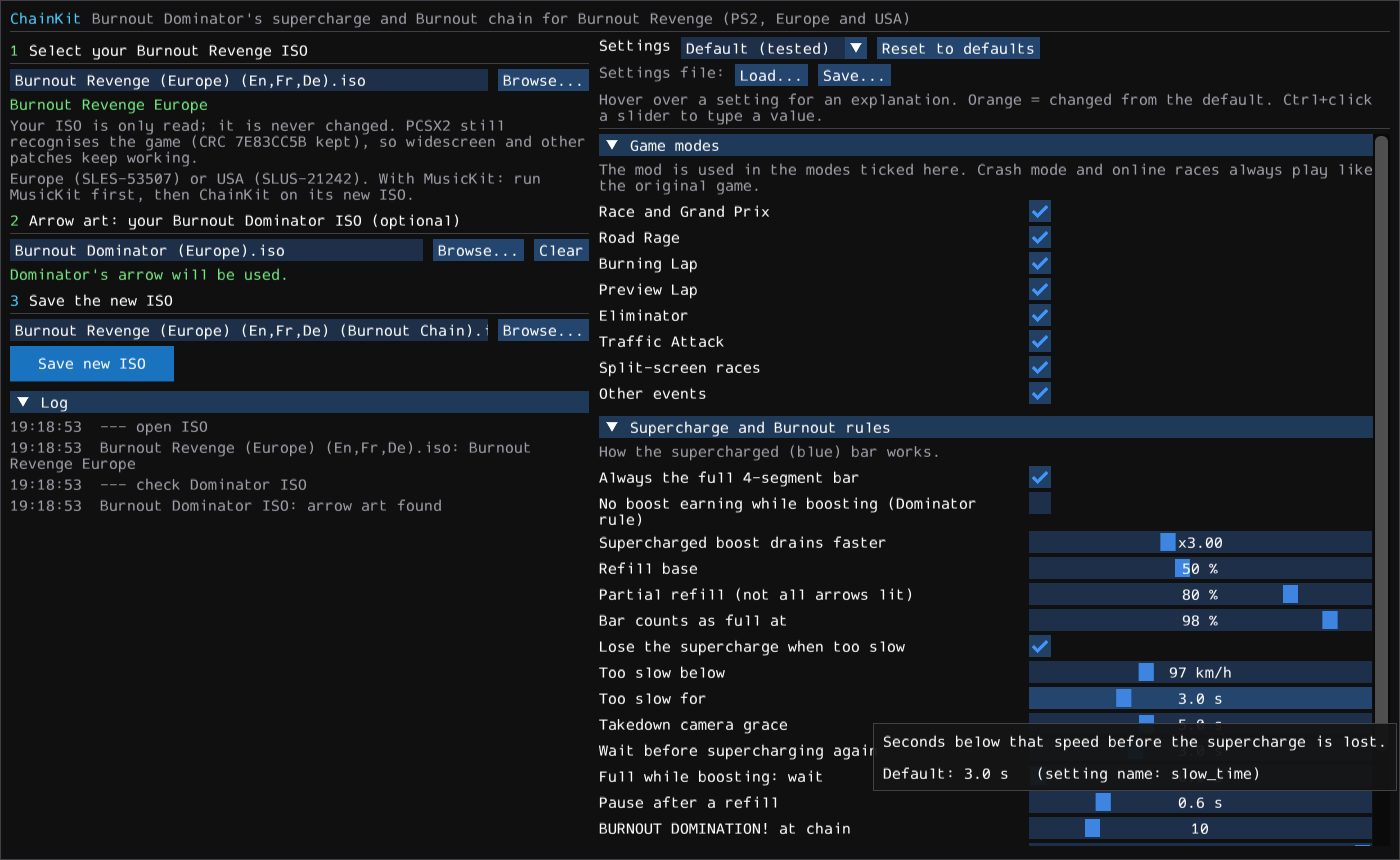
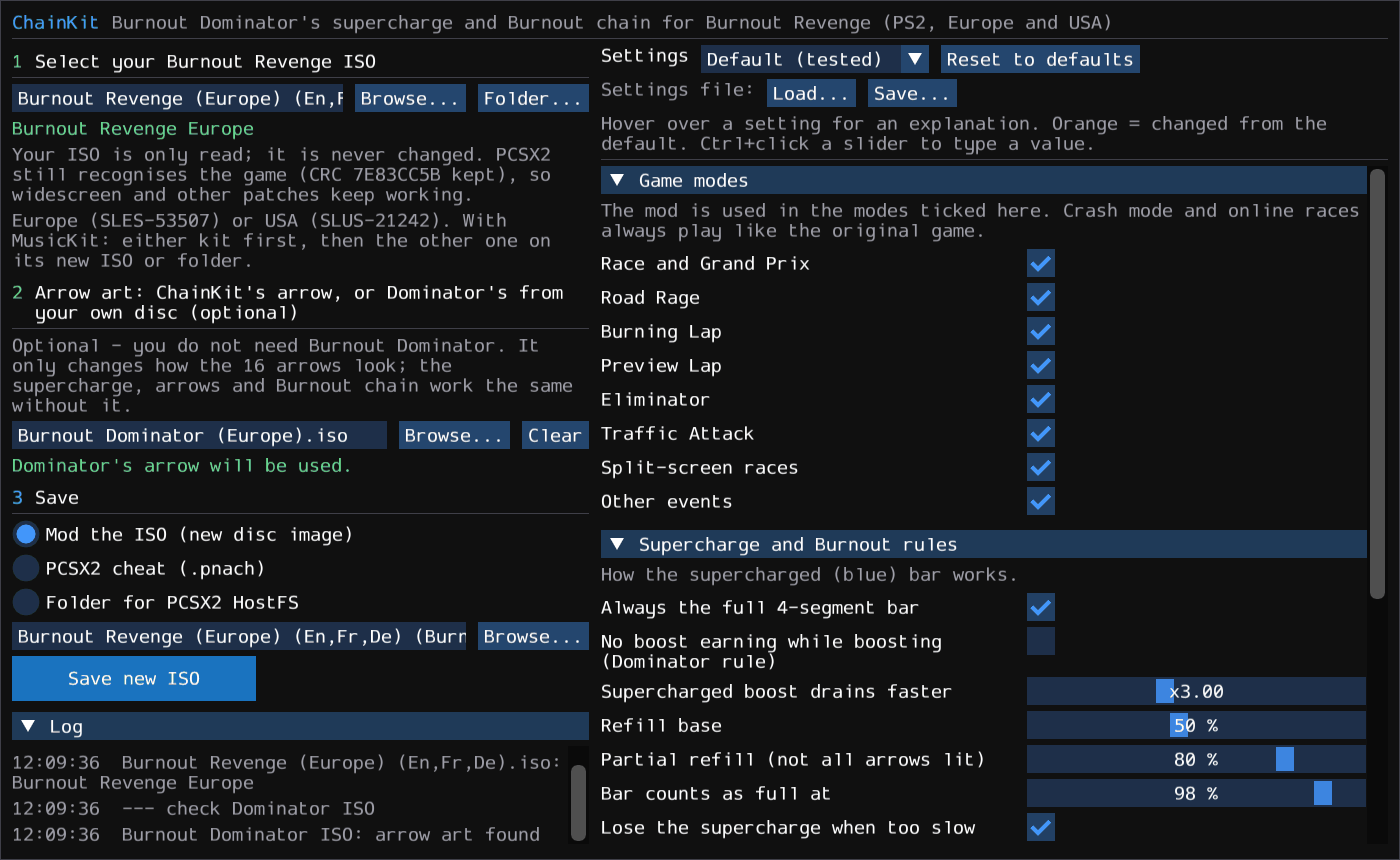
README: ISO, cheat or HostFS folder; MusicKit in either order; setup
- Save step: new ISO, PCSX2 cheat (.pnach) or HostFS folder, comparison table
- PCSX2 HostFS folder: Play it in PCSX2 (Nahelam's patches), combining mods
- Install: Python 3.12-3.15 or none (private Python 3.13), what the setup does
- Screenshots re-made for the current window, annotated save types and HostFS,
  PCSX2 settings for HostFS

diff --git a/README.md b/README.md
@@ -3,7 +3,7 @@
 **Burnout Dominator's supercharge and Burnout chain in Burnout Revenge.** Fill your boost bar, it turns blue
 (*SUPERCHARGE READY!*), boost it empty while you drive well, and it refills itself: *BURNOUT!*, *BURNOUT! x2*,
 *x3* … up to *BURNOUT DOMINATION!* ChainKit writes a new disc image of your own Burnout Revenge with this rule
-set built in — and lets you tune every part of it.
+set built in — or a PCSX2 cheat, or a game folder for PCSX2 — and lets you tune every part of it.
 
 > **Unofficial fan-made tool.** Not affiliated with, endorsed or sponsored by Electronic Arts Inc. or Criterion
 > Games. You need **your own copy** of the game. See [Legal](#legal) before you use or share anything.
@@ -11,7 +11,12 @@ set built in — and lets you tune every part of it.
 - Works with your own disc image of **Burnout Revenge for PlayStation 2**:
   - Europe / PAL — `SLES-53507`
   - USA / NTSC — `SLUS-21242`
-- Your image is **only read, never modified**; ChainKit writes a **new** `.iso`.
+- Your image is **only read, never modified**. ChainKit makes one of three things (see
+  [New ISO, PCSX2 cheat or HostFS folder?](#new-iso-pcsx2-cheat-or-hostfs-folder)):
+  - a **new** `.iso` (PCSX2 or a real PS2),
+  - a **PCSX2 cheat** (`.pnach`, a small text file — no new ISO),
+  - a **PCSX2 HostFS folder** with the game's files ([below](#pcsx2-hostfs-folder-no-new-iso)), where later
+    changes take seconds.
 - **Burnout Dominator is optional — you do not need it.** By default the arrows are **ChainKit's arrow**:
   Revenge's own chevron slash, repainted so it shows up clearly (made on your computer from your own Revenge disc).
   If you like, use the real Dominator arrow art instead, taken from **your own** Burnout Dominator disc image. The
@@ -19,7 +24,8 @@ set built in — and lets you tune every part of it.
 - **Every rule is a setting** — per game mode, per driving action, colours, pop-ups, sounds — with presets
   (*Default (tested)*, *Dominator rules*, *Easy*, *Hard*). Open an image ChainKit made to change its settings
   later, without starting over.
-- Works together with **MusicKit** (run MusicKit first).
+- Works together with [**MusicKit**](https://github.com/Bondimm/burnout-revenge-musickit), **in either order** —
+  on the same ISO chain or in the same HostFS folder (see [Combining mods](#combining-mods)).
 - The new image keeps the game's PCSX2 CRC (`7E83CC5B` Europe, `D224D348` USA), so **PCSX2 still recognises the
   game and applies its patches** (widescreen etc.).
 - **Tested in PCSX2** with the default settings on the European version (races, Road Rage, Burning Lap). The USA
@@ -49,7 +55,8 @@ set built in — and lets you tune every part of it.
 ### Step 1 — Select your Burnout Revenge ISO
 Click **Browse…** (or drop the `.iso` on the window). ChainKit tells you what is on it: the original game,
 MusicKit songs — or the Burnout Chain mod itself (then its settings are loaded, see
-[Change the settings later](#change-the-settings-later)).
+[Change the settings later](#change-the-settings-later)). **Folder...** opens a PCSX2 HostFS game folder instead
+(made by ChainKit or MusicKit) — see [PCSX2 HostFS folder](#pcsx2-hostfs-folder-no-new-iso).
 
 ### Step 2 — Arrow art (optional)
 **You can skip this step.** It only changes how the arrows look — the gameplay is the same. Without it the
@@ -69,33 +76,40 @@ fill*, *Arrows* and *Display and sound*. Hover over any setting for an explanati
 settings turn orange. Start from a preset and change single settings if you like. See the
 [settings guide](#settings-guide).
 
-### Step 4 — Save: new ISO or PCSX2 cheat
-Choose what to make (see [ISO or PCSX2 cheat?](#iso-or-pcsx2-cheat)):
+### Step 4 — Save: new ISO, PCSX2 cheat or HostFS folder
+Choose what to make (see [New ISO, PCSX2 cheat or HostFS folder?](#new-iso-pcsx2-cheat-or-hostfs-folder)):
+
+![Save: new ISO, PCSX2 cheat or HostFS folder](docs/images/chainkit_save_types.png)
 
 - **Mod the ISO** — choose where to save it and click **Save new ISO**.
 - **PCSX2 cheat (.pnach)** — choose a folder (the ChainKit folder by default; **Use PCSX2 cheats folder** appears
   when ChainKit finds one) and click **Save PCSX2 cheat**. See [Install the cheat](#install-the-pcsx2-cheat).
+- **Folder for PCSX2 HostFS** — choose an empty folder (or open a game folder in step 1) and click **Save to
+  folder**. See [PCSX2 HostFS folder](#pcsx2-hostfs-folder-no-new-iso).
 
-For the new ISO: ChainKit writes the new image and then **checks** it: every file
+For the new ISO (and the folder): ChainKit writes it and then **checks** it: every file
 it did not change is compared with your ISO byte by byte, the PCSX2 CRC, the new texts and the arrow texture are
 verified. The log shows the result (*RESULT: OK*). Load the new `.iso` in PCSX2 or burn it for your PS2.
 
 ![Saved and checked](docs/images/chainkit_saved.png)
 
-## ISO or PCSX2 cheat?
+## New ISO, PCSX2 cheat or HostFS folder?
 
-| | Mod the ISO | PCSX2 cheat (.pnach) |
-|---|---|---|
-| Plays on | PCSX2 **and** a real PS2 (burned disc / OPL) | PCSX2 only |
-| Your game files | a new `.iso` next to yours (~4 GB) | none changed - a ~100 KB text file |
-| Switch the mod off | play your original ISO | untick it in PCSX2's cheat list (takes effect at the next boot) |
-| Arrow art | ChainKit's arrow, or Dominator's from your Dominator disc | the same (the cheat file then contains the arrow made from your disc: personal use only, do not share it) |
-| Pop-up texts | in every language of your disc | English |
-| Settings | all | all (same code, same settings) |
+| | Mod the ISO | PCSX2 cheat (.pnach) | HostFS folder |
+|---|---|---|---|
+| Plays on | PCSX2 **and** a real PS2 (burned disc / OPL) | PCSX2 only | PCSX2 only (needs Nahelam's HostFS cheat) |
+| Your game files | a new `.iso` next to yours (~4 GB) | none changed - a ~100 KB text file | the game's files in a folder (~2.7 GB, copied once) |
+| Change settings later | open the new ISO, save another one | make a new cheat from your ISO | open the folder, save into it (seconds) |
+| Switch the mod off | play your original ISO | untick it in PCSX2's cheat list (takes effect at the next boot) | play your original ISO (untick the HostFS cheat) |
+| Arrow art | ChainKit's arrow, or Dominator's from your Dominator disc | the same (the cheat file then contains the arrow made from your disc: personal use only, do not share it) | the same as the ISO |
+| Pop-up texts | in every language of your disc | English | in every language of your disc |
+| With MusicKit | either order (see [Combining mods](#combining-mods)) | on a MusicKit ISO or folder | either order, in the same folder |
+| Settings | all | all (same code, same settings) | all |
 
-Both are the same mod: the cheat writes exactly the memory the modded ISO has (checked by the tests). Differences:
-the pop-up texts come from the cheat itself (English), and the arrow image is copied from the cheat into the
-game's unused online voice-chat icon in memory (the ISO version replaces it in the disc's texture file).
+All three are the same mod: the cheat writes exactly the memory the modded ISO has (checked by the tests).
+Differences: the cheat's pop-up texts come from the cheat itself (English), and its arrow image is copied from the
+cheat into the game's unused online voice-chat icon in memory (the ISO and the folder replace it in the game's
+texture file).
 
 ### Install the PCSX2 cheat
 1. Save the cheat with ChainKit (window: **PCSX2 cheat (.pnach)**; command line: `pnach --iso "Burnout Revenge.iso"`).
@@ -110,7 +124,8 @@ game's unused online voice-chat icon in memory (the ISO version replaces it in t
 4. **Boot the game** (or restart it): the cheat is written once when the game starts.
 
 Notes: use your ISO **without** ChainKit (never the cheat together with a ChainKit ISO - ChainKit refuses to make a
-cheat from such an ISO). MusicKit ISOs are fine. Other cheats: `pnach-check` (or `pnach --check-with`)
+cheat from such an ISO). MusicKit ISOs and folders are fine (make the cheat from them, e.g.
+`pnach --iso "<folder>"`). Other cheats: `pnach-check` (or `pnach --check-with`)
 lists memory both write - none with Nehalem's Single Event Mod. Other versions of the game (Japan, other
 executables) are not supported.
 
@@ -137,14 +152,13 @@ A third way for PCSX2: save the mod into a **folder** instead of a new disc imag
 loads the game's files straight from that folder. It is the same mod as the new ISO (pop-up texts in every
 language of your disc, ChainKit's or Dominator's arrow):
 
-- the first save copies the game's files from your ISO into the folder (once, about 2.5 GB);
+- the first save copies the game's files from your ISO into the folder (once, about 2.7 GB);
 - later saves (other settings) only rewrite the files ChainKit changes — the game executable, and the arrow art if
   you add Dominator's — no 4 GB ISO each time;
-- **with MusicKit:** save with one kit, then open **that folder** in the other kit (step 1, **Folder...**) and
-  save there — in either order. Both kits keep each other's changes. ChainKit refuses to save your ISO over a
-  folder that already has MusicKit songs or the mod (that would lose them).
+- MusicKit can save into the same folder, in either order (see [Combining mods](#combining-mods));
+- **PCSX2 only** — a folder does not work on a real PS2.
 
-PCSX2 only (not a real PS2). The Criterion games need a small PCSX2 cheat to read from a folder:
+The Criterion games need a small PCSX2 cheat to read from a folder:
 **Nahelam's HostFS patches** ([PCSX2-HostFS-Patches](https://github.com/Nahelam/PCSX2-HostFS-Patches), folder
 [Criterion Games](https://github.com/Nahelam/PCSX2-HostFS-Patches/tree/main/Criterion%20Games)) — thanks to
 [Nahelam](https://github.com/Nahelam) for making them. ChainKit does not include that cheat; you download it once.
@@ -152,13 +166,16 @@ PCSX2 only (not a real PS2). The Criterion games need a small PCSX2 cheat to rea
 ### Save into a folder
 1. Select your ISO in step 1 — or a game folder with **Folder...** (made by MusicKit or ChainKit; it is then saved
    into itself).
-2. In the Save step choose **Folder for PCSX2 HostFS** and pick an **empty folder** (not needed for a folder from step 1).
+2. In the Save step choose **Folder for PCSX2 HostFS** and **Browse...** to an **empty folder** (not needed for a
+   folder from step 1).
 3. Click **Save to folder**. ChainKit writes the files and a small boot image `Burnout Revenge (HostFS).iso` into
    the folder (it holds only `SYSTEM.CNF` and the game executable and is rebuilt on every save), then checks the
    folder like a new ISO.
 
 To change the settings later, open the folder in step 1 with **Folder...** (or click *Open this folder here* after
 saving), change them and save again. Your ISO is never changed.
+
+![After saving into a folder: open it again, and how to play it in PCSX2](docs/images/chainkit_hostfs.png)
 
 ### Play it in PCSX2 (once)
 1. Download the cheat for your version from
@@ -168,56 +185,60 @@ saving), change them and save again. Your ISO is never changed.
    - USA / NTSC (SLUS-21242): `SLUS-21242_D224D348_hostfs.pnach`
 
    Put it into PCSX2's `cheats` folder (PCSX2: *Tools → Open Data Directory*).
-2. Add your folder to PCSX2's game list (*Settings → Game List → Add...*, without recursive scan). It shows
-   `Burnout Revenge (HostFS).iso`.
+2. Add your folder to PCSX2's game list (*Settings → Game List → Add...*, without recursive scan). The game appears
+   as **Burnout Revenge**, only a few MB in size: that is the boot image `Burnout Revenge (HostFS).iso`.
 3. Right-click it → *Properties*: on the *Emulation* page switch on **Enable Host Filesystem**; on the *Cheats* page
-   switch on **Enable Cheats** and tick **HostFS**.
-4. Start `Burnout Revenge (HostFS).iso`.
+   switch on **Enable Cheats** and tick **HostFS** (not *Burnout Chain (ChainKit)*: the folder already has the mod).
+4. Start it from the game list.
 
-The game CRC stays the same, so PCSX2's widescreen patches still apply (do not use the ChainKit *cheat* on top:
-the folder already has the mod). ChainKit shows these steps after saving, too. As Nahelam notes, with the HostFS
-cheat the network configuration cannot be started from the game (save your network settings on the memory card
-first if you play online).
+![PCSX2: the folder in the game list, Enable Host Filesystem, Enable Cheats + HostFS](docs/images/pcsx2_hostfs.png)
 
-**Stop the game before you save** into its folder: the running game keeps its files open. On Windows ChainKit
-then refuses to save (nothing is changed) and tells you why; restart the game after saving.
+The game CRC stays the same, so PCSX2's widescreen patches still apply. ChainKit shows these steps after saving,
+too. As Nahelam notes, with the HostFS cheat the network configuration cannot be started from the game (save your
+network settings on the memory card first if you play online).
 
-**Linux:** the game asks for its files in mixed letter case while the disc stores them in upper case. That only
-works in a case-insensitive folder — on ext4 for example an empty folder with casefold switched on (`chattr +F`,
-needs a file system created with casefold support). ChainKit warns when the folder is case-sensitive but still lets
-you save and try. Windows and macOS (default file system) need nothing special.
+- **Stop the game before you save** into its folder: the running game keeps its files open. On Windows ChainKit
+  then refuses to save (nothing is changed) and tells you why; restart the game after saving.
+- **Linux:** the game asks for its files in mixed letter case while the disc stores them in upper case. That only
+  works in a case-insensitive folder — on ext4 for example an empty folder with casefold switched on (`chattr +F`,
+  needs a file system created with casefold support). ChainKit warns when the folder is case-sensitive but still
+  lets you save and try. Windows and macOS (default file system) need nothing special.
 
-### Other mods in the same folder
+### Combining mods
 
-- **MusicKit + ChainKit:** both kits save into the same folder, **in either order**: save with one kit, then open
-  the folder in the other kit (step 1, **Folder...**, or `--iso "<folder>"`) and save there. Saving again later
-  in either kit keeps the other kit's changes (songs, supercharge settings, pop-up texts, arrow).
-- **Saving your ISO into a folder that already has the game** works while the game executable there is still the
-  ISO's (ChainKit then adds the mod on top of the folder's texts and textures). When the executable was changed
-  (MusicKit songs, the mod itself or another mod), ChainKit refuses (nothing is changed) and tells you to open
-  the folder instead (or to pick an empty folder to start again from your ISO).
-- **Other people's file mods** (replaced cars, textures, videos, extra files) are never touched: ChainKit writes only
-  the files it manages. Texts other mods changed in the game's text files are kept too. `validate` lists such
-  files as notes, not as errors.
-- **PCSX2 cheats** (widescreen and other patches) keep working: the game CRC stays the same. The per-game
-  *HostFS* cheat is only for the folder — **untick it** before you start a normal ISO of the same game
-  (with it on, the ISO does not start).
-- ChainKit's **PCSX2 cheat** also works with a MusicKit folder (make the cheat from that folder:
-  `pnach --iso "<folder>"`); do not use it on a folder that already has the mod.
-- **Folders made by other tools** work: a folder extracted with 7-Zip, or set up as in Nahelam's guide (your own ISO
-  inside the folder). Start `Burnout Revenge (HostFS).iso` then — your own ISO in the folder still starts the game's
-  original executable, without ChainKit's changes to it. ChainKit explains what to do when names still end in `;1`
-  (extract again with 7-Zip), when you picked the folder above the game's files, or when files are missing (an
-  unfinished extraction: save from your ISO into the folder and the missing files are copied).
+- **ChainKit + MusicKit, in either order.** Save with one kit, then open *that* new ISO or folder in the other kit
+  and save there (a folder: step 1 **Folder...**, command line `--iso "<folder>"`). Saving again later in either
+  kit keeps the other kit's changes (songs, supercharge settings, pop-up texts, arrow). Older MusicKit versions
+  (before October 2026) cannot open an image that already has ChainKit — update MusicKit, or run MusicKit first.
+- **ChainKit's PCSX2 cheat** works with a MusicKit ISO or folder too (make the cheat from it:
+  `pnach --iso "<folder>"`). Never use it on an ISO or folder that already has the mod.
+- **Saving again:** always open the folder (not your ISO) and save — only the changed files are rewritten.
+- **Your ISO into a folder that already has the game** works while the game executable there is still the ISO's
+  (ChainKit then adds the mod on top of the folder's texts and textures). When the executable was changed
+  (MusicKit songs, the mod itself or another mod), ChainKit refuses (nothing is changed) and tells you to open the
+  folder instead — or pick an empty folder to start again from your ISO.
+- **Other mods are kept:** other people's file mods (replaced cars, textures, videos, extra files) are never
+  touched — ChainKit writes only the files it manages — and texts other mods changed in the game's text files stay
+  too. `validate` lists such files as notes, not as errors.
+- **PCSX2 cheats and patches** (widescreen etc.) keep working: the game CRC stays the same. The *HostFS* cheat is
+  only for the folder — **untick it** before you start a normal ISO of the same game (with it on, the ISO does not
+  start).
 
-Tested in PCSX2 2.8 (Europe discs, Burnout Revenge also USA): songs that exist only in the folder play from the folder
-in menus and races (the boot image holds only `SYSTEM.CNF` and the executable); MusicKit + ChainKit in both orders
-with supercharge, arrows and SUPERCHARGE LOST, a memory card save and the widescreen patch; other mods' files and
-texts stayed unchanged through every save.
+<details>
+<summary><b>Folders made by other tools (7-Zip, Nahelam's guide) and what was tested</b></summary>
 
-Command line ([optional](#command-line-optional)): `build --iso "Burnout Revenge (Europe).iso" --folder "<folder>"`
-saves into a folder; `build --iso "<folder>"` puts the mod into a folder (e.g. MusicKit's) and
-`tune "<folder>" "<folder>" --set ...` changes its settings.
+- A folder extracted with 7-Zip, or set up as in Nahelam's guide (your own ISO inside the folder), works. Start
+  `Burnout Revenge (HostFS).iso` then — your own ISO in the folder still starts the game's original executable,
+  without ChainKit's changes to it.
+- ChainKit explains what to do when names still end in `;1` (extract again with 7-Zip), when you picked the folder
+  above the game's files, or when files are missing (an unfinished extraction: save from your ISO into the folder
+  and the missing files are copied).
+- Tested in PCSX2 2.8 (Europe discs, Burnout Revenge also USA): songs that exist only in the folder play from the
+  folder in menus and races (the boot image holds only `SYSTEM.CNF` and the executable); MusicKit + ChainKit in
+  both orders with supercharge, arrows and SUPERCHARGE LOST, a memory card save and the widescreen patch; other
+  mods' files and texts stayed unchanged through every save.
+
+</details>
 
 ## Settings guide
 
@@ -290,19 +311,31 @@ loads it too.
 | What | Details |
 |---|---|
 | Operating system | Windows 10 or 11 (64-bit), macOS 14 Sonoma or newer (Apple Silicon or Intel), or 64-bit Linux (x86_64 or aarch64, glibc 2.28+; tested on Ubuntu 22.04 / 24.04) |
-| Python | any Python 3.12 or newer, or none at all — the setup picks an installed Python for which every package is available ready-made, or downloads a private Python 3.13 into the `.python` folder (no admin rights needed, about 100 MB) |
+| Python | Python 3.12 – 3.15 (64-bit), or none at all: the setup uses an installed Python for which every package is available ready-made, otherwise it downloads a private Python 3.13 into the `.python` folder (no admin rights needed, about 100 MB) |
 | Python packages | installed automatically by `setup.bat` / `setup.command` / `setup.sh` into a private `.venv`: numpy, glfw, PyOpenGL, imgui-bundle, Pillow, pytest (see [requirements.txt](requirements.txt)) |
 | Graphics | any GPU with OpenGL 3.3 (for the ChainKit window) |
-| Disk space | about 4.5 GB free for the new disc image plus ~300 MB for the Python packages |
+| Disk space | about 4.5 GB free for the new disc image (about 3 GB for a HostFS folder, almost nothing for a PCSX2 cheat) plus ~300 MB for the Python packages |
 | The game | your own disc image (.iso) of Burnout Revenge for PS2: Europe `SLES-53507` or USA `SLUS-21242` |
 | Optional | your own disc image of Burnout Dominator (PS2) for the arrow art |
 | Internet | only once, during `setup.bat` / `setup.command` / `setup.sh` |
 
+### What the setup does
+The setup scripts never compile anything and change nothing outside the ChainKit folder:
+
+1. They look for an installed 64-bit Python (3.12 – 3.15) and use the first one for which **every** package is
+   available ready-made, in a private environment `.venv`.
+2. If there is no Python, or none can install the packages (e.g. a brand-new Python 3.15 before the packages have
+   caught up), they download a **private Python 3.13** into the `.python` folder with
+   [uv](https://astral.sh/uv) (download checked against a checksum) and use that one.
+
+Run the setup again at any time: it updates the packages, or rebuilds `.venv` if it no longer works (e.g. after
+you removed the Python it was made with). `CHAINKIT_PRIVATE_PYTHON=1` makes it skip the installed Pythons.
+
 ## Installation (Windows 10 / 11)
 
-1. Optional: install **Python 3.12 or newer** from <https://www.python.org/downloads/> (tick *"Add python.exe to PATH"*).
-   Without it, or when your Python is too new for some packages (e.g. a fresh 3.15), `setup.bat` downloads a
-   private Python into the `.python` folder by itself.
+1. Optional: install **Python 3.12 – 3.15** from <https://www.python.org/downloads/> (tick *"Add python.exe to
+   PATH"*). Without it, `setup.bat` downloads a private Python by itself (see
+   [What the setup does](#what-the-setup-does)).
 2. Download this repository (green **Code** button → *Download ZIP*) and unpack it, or `git clone` it.
 3. Double-click **`setup.bat`** once. It creates a private Python environment in `.venv`. Nothing is installed
    system-wide.
@@ -312,9 +345,9 @@ loads it too.
 
 For Apple Silicon (M1 and newer) and Intel Macs with macOS 14 Sonoma or newer.
 
-1. Optional: install **Python 3.12 or newer** from <https://www.python.org/downloads/macos/> (or with
-   [Homebrew](https://brew.sh): `brew install python`). Without it, or when your Python is too new for some
-   packages, `setup.command` downloads a private Python into the `.python` folder by itself.
+1. Optional: install **Python 3.12 – 3.15** from <https://www.python.org/downloads/macos/> (or with
+   [Homebrew](https://brew.sh): `brew install python`). Without it, `setup.command` downloads a private Python by
+   itself (see [What the setup does](#what-the-setup-does)).
 2. Download this repository (green **Code** button → *Download ZIP*) and unpack it, or `git clone` it.
 3. Double-click **`setup.command`** once. It opens a Terminal window and creates a private Python environment in
    `.venv`. Nothing is installed system-wide.
@@ -334,9 +367,9 @@ For Apple Silicon (M1 and newer) and Intel Macs with macOS 14 Sonoma or newer.
 For 64-bit Linux on x86_64 or aarch64 (glibc 2.28 or newer; Alpine / musl is not supported). Tested in CI on
 Ubuntu 22.04 and 24.04 (x86_64); other distributions (Debian, Fedora, Arch, openSUSE, Mint, ...) should work the same way.
 
-1. Install the system packages. Python is optional: `./setup.sh` uses an installed Python 3.12 or newer (on
-   Debian / Ubuntu with its separate `venv` package) and otherwise downloads a private Python into the `.python`
-   folder by itself:
+1. Install the system packages. Python is optional: `./setup.sh` uses an installed Python 3.12 – 3.15 (on
+   Debian / Ubuntu with its separate `venv` package) and otherwise downloads a private Python by itself (see
+   [What the setup does](#what-the-setup-does)):
    - Debian / Ubuntu / Mint: `sudo apt install python3 python3-venv python3-pip libgl1 libegl1 libxkbcommon0 zenity`
    - Fedora: `sudo dnf install python3 python3-pip mesa-libGL mesa-libEGL libxkbcommon zenity`
    - Arch / Manjaro: `sudo pacman -S python python-pip mesa libglvnd libxkbcommon zenity`
@@ -370,6 +403,9 @@ in a terminal).
 | check a new image | `validate "Burnout Revenge (Europe).iso" "Burnout Revenge (Burnout Chain).iso"` |
 | PCSX2 cheat instead of an ISO | `pnach --iso "Burnout Revenge (Europe).iso" --out-dir cheats` (`--force` replaces an existing file; give `--iso` twice for Europe + USA; `--region pal\|usa\|both`) · or `build --output-type pnach ...` |
 | other cheats writing the same memory? | `pnach-check SLES-53507_7E83CC5B_chainkit.pnach --with OTHER.pnach` (also `pnach ... --check-with OTHER.pnach`) |
+| PCSX2 HostFS folder instead of an ISO | `build --iso "Burnout Revenge (Europe).iso" --folder "<folder>"` |
+| put the mod into an existing game folder (e.g. MusicKit's) | `build --iso "<folder>"` (saved into itself) |
+| change the settings of a folder | `tune "<folder>" "<folder>" --set drain_mult=2` |
 
 On/off settings have their own names, so no bit masks are needed: `--set only_boost_while_held=off`, `--set debug_boost=on`, `--set mode_traffic_attack=off` (`settings` lists every name).
 
@@ -382,11 +418,11 @@ MusicKit songs are kept, and every other file is byte-identical to your ISO.
 
 ## Works with MusicKit
 
-- **MusicKit:** run [MusicKit](https://github.com/Bondimm/burnout-revenge-musickit) and ChainKit in either order,
-  each on the other's new image (or HostFS folder). ChainKit uses the top of the free space that MusicKit opens
-  for its song list; both fit. Older MusicKit versions (before October 2026) cannot open an image that already
-  has ChainKit — update MusicKit, or run MusicKit first. ChainKit shows a clear message if an image has a song
-  list broken by an old tool run after ChainKit.
+Run [MusicKit](https://github.com/Bondimm/burnout-revenge-musickit) and ChainKit **in either order**, each on the
+other's new image or in the same HostFS folder (see [Combining mods](#combining-mods)). ChainKit uses the top of
+the free space that MusicKit opens for its song list; both fit. ChainKit shows a clear message if an image has a
+song list broken by an old tool run after ChainKit.
+
 ## FAQ
 
 **PCSX2 says the dump is not in the redump database / the MD5 is red.** That is expected for *any* modified disc
@@ -409,13 +445,20 @@ online races always play like the original.
 arrow (Revenge's chevron, repainted) and everything else is the same.
 
 **Can I change the settings again later?** Yes — open the image ChainKit made, change the settings, save a new
-image. Your Dominator arrow stays.
+image (a HostFS folder: open it and save into it). Your Dominator arrow stays. A PCSX2 cheat is simply made again
+from your ISO.
 
 **Does it work with the USA version of Burnout Revenge?** Yes — Europe (`SLES-53507`) and USA (`SLUS-21242`) are
 both supported. The USA version has English texts only, so the pop-ups are in English. Other versions (Japan,
 Platinum re-releases with a different executable) are refused with a message.
 
 **Will my save game still work?** Yes. ChainKit changes nothing that is saved on the memory card.
+
+**My normal ISO does not start any more.** The *HostFS* cheat is still ticked for this game: untick it in the
+game's *Properties → Cheats* (it is only for a HostFS folder).
+
+**Can I have MusicKit songs too?** Yes, in any order: open ChainKit's new ISO or folder in MusicKit and save there,
+or the other way round (see [Combining mods](#combining-mods)).
 
 ## For modders
 
@@ -440,11 +483,16 @@ set CHAINKIT_DOMINATOR=D:\path\to\Burnout Dominator.iso  (optional)
 ## Other Burnout kits
 
 - [Burnout Revenge MusicKit](https://github.com/Bondimm/burnout-revenge-musickit) — add your own songs to the EA
-  Trax soundtrack of Burnout Revenge (Europe and USA).
+  Trax soundtrack of Burnout Revenge (Europe and USA); works together with ChainKit.
 - [Burnout Dominator MusicKit](https://github.com/Bondimm/burnout-dominator-musickit) — the same for Burnout
   Dominator (PS2).
 - [Burnout 3: Takedown MusicKit](https://github.com/Bondimm/burnout3-takedown-musickit) — the same for Burnout 3:
   Takedown (PS2).
+
+## Thanks
+
+- [Nahelam](https://github.com/Nahelam) for the
+  [PCSX2 HostFS patches](https://github.com/Nahelam/PCSX2-HostFS-Patches) that make the folder mode possible.
 
 ## Legal
 
@@ -464,7 +512,8 @@ set CHAINKIT_DOMINATOR=D:\path\to\Burnout Dominator.iso  (optional)
   Burnout Dominator image into your own Burnout Revenge image on your computer. ChainKit does not bypass any copy
   protection; it only edits a copy of your own image.
 - **Do not share modified disc images.** Disc images contain the games, which are copyrighted by Electronic Arts.
-  Uploading or distributing them — modified or not — is not allowed. Share your settings files instead.
+  Uploading or distributing them — modified or not — is not allowed; the same goes for HostFS game folders (they
+  hold the game's files). Share your settings files instead.
 - **No warranty.** The software is provided "as is", without warranty of any kind (see [LICENSE](LICENSE)).
   Use it at your own risk; keep a backup of your original image and your memory card saves.
 - **Licence.** The source code is released under the MIT License. The licence applies only to the code in this
